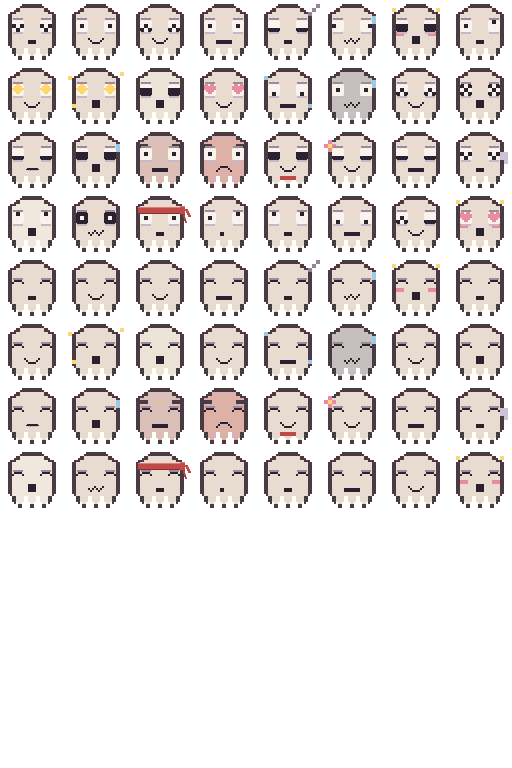
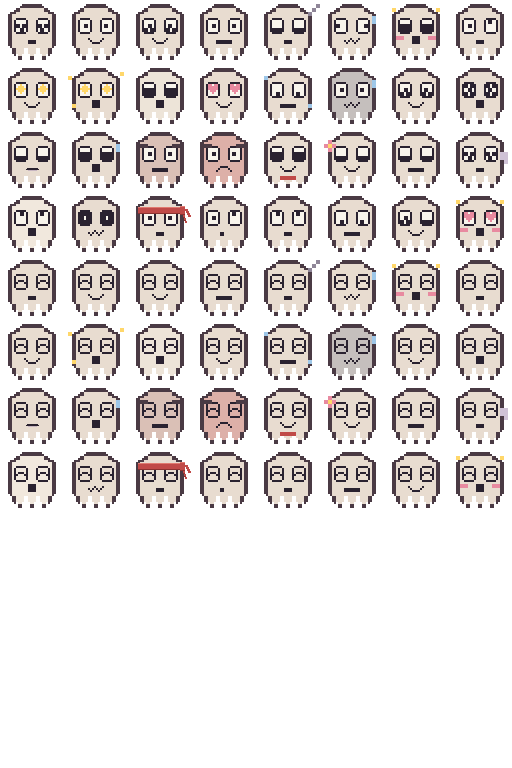
feat: the face is COMPOSED - components with recipes; inset outlined eyes
A mood is now a recipe ([name, eyes-preset, mouth-name, hue, extras]) and
the parts draw themselves: the eye component owns its socket outline,
whites, pupil presets, and blink lid; the mouth component owns its cells
and its mask reservation; fins (posture code) and spots (live layer) were
already the renderer's components. Per the maintainer's notes: whites are
INSET two cells from the silhouette (they used to bleed into the edge) and
wear a thin near-black socket outline in the mouth's 2px register - the
full ring the flush lashes could never be. Blush moves to the cheeks below
the sockets.

diff --git a/scripts/gen-sepia.js b/scripts/gen-sepia.js
@@ -32,9 +32,9 @@ const BASE16 = [
   "...oobbbbbboo...",
   "..obbbbbbbbbbo..",
   "..obbbbbbbbbbo..",
-  "..oWWWbbbbWWWo..",
-  "..oWWWbbbbWWWo..",
-  "..oWWWbbbbWWWo..",
+  "..obbbbbbbbbbo..",
+  "..obbbbbbbbbbo..",
+  "..obbbbbbbbbbo..",
   "..obbbbbbbbbbo..",
   "..obbbbbbbbbbo..",
   "..obbbbbbbbbbo..",
@@ -84,23 +84,47 @@ const up2 = list => list.flatMap(q => [
   [2 * q[0], 2 * q[1], q[2]], [2 * q[0] + 1, 2 * q[1], q[2]],
   [2 * q[0], 2 * q[1] + 1, q[2]], [2 * q[0] + 1, 2 * q[1] + 1, q[2]]
 ].map(p => q.length > 2 ? p : [p[0], p[1]]));
-// left-eye pupil presets, 16-grid (whites now cols 6-11 / 20-25, rows 10-15 in the 32-grid)
-const PUP16 = {
-  w:      [[3,6],[4,7],[5,6]],
-  dot:    [[4,6]],
-  down:   [[4,7]],
-  uptiny: [[4,5]],
-  closed: [[3,7],[4,7],[5,7]],
-  happy:  [[3,7],[4,6],[5,7]],
-  wide:   [[3,6],[4,6],[5,6],[3,7],[4,7],[5,7]],
-  cross:  [[3,5],[5,5],[4,6],[3,7],[5,7]],
-  spiral: [[3,5],[4,5],[5,5],[5,6],[5,7],[4,7],[3,7],[3,6]],
-  side:   [[3,6]]
+// ---- the EYE component. Whites live in a 5×6-cell box INSET two cells from the
+// silhouette (they used to bleed into the edge — the maintainer's note), wrapped in a
+// thin near-black socket outline drawn in the mouth's 2px register. The inset is what
+// makes a full outline possible at all: flush eyes could only ever wear half a ring.
+// Pupil presets use the ancestral 3-position grid mapped into the 5-wide box (mirrored
+// eyes lean one real pixel inward — she reads as gently focused). Blink is the same
+// socket, lidded. Left box at x=8; the right eye mirrors at x=19.
+const PUPR = {
+  w: [[0,1],[1,2],[2,1]], dot: [[1,1]], down: [[1,2]], uptiny: [[1,0]],
+  closed: [[0,2],[1,2],[2,2]], happy: [[0,2],[1,1],[2,2]],
+  wide: [[0,1],[1,1],[2,1],[0,2],[1,2],[2,2]],
+  cross: [[0,0],[2,0],[1,1],[0,2],[2,2]],
+  spiral: [[0,0],[1,0],[2,0],[2,1],[2,2],[1,2],[0,2],[0,1]],
+  side: [[0,1]]
 };
-const PUP = {}; Object.keys(PUP16).forEach(k => { PUP[k] = up2(PUP16[k]); });
-// a TRUE heart and a diamond glint, only possible on the finer grid (left-eye coords)
-const HEART = [[6,10],[7,10],[9,10],[10,10],[6,11],[7,11],[8,11],[9,11],[10,11],[11,11],[6,12],[7,12],[8,12],[9,12],[10,12],[11,12],[7,13],[8,13],[9,13],[10,13],[8,14],[9,14]];
-const STAR = [[8,10],[9,10],[7,11],[8,11],[9,11],[10,11],[6,12],[7,12],[8,12],[9,12],[10,12],[11,12],[7,13],[8,13],[9,13],[10,13],[8,14],[9,14]];
+const HEARTR = [[0,0],[1,0],[3,0],[4,0],[0,1],[1,1],[2,1],[3,1],[4,1],[0,2],[1,2],[2,2],[3,2],[4,2],[1,3],[2,3],[3,3],[2,4]];
+const STARR = [[2,0],[1,1],[2,1],[3,1],[0,2],[1,2],[2,2],[3,2],[4,2],[1,3],[2,3],[3,3],[2,4]];
+const POFF = [0, 2, 3];                                        // 3 pupil stations in a 5-wide box; mirror station = 3 - POFF
+function drawEyes(out, lp, rp, blink) {
+  [[8, lp, false], [19, rp, true]].forEach(spec => {
+    const bx = spec[0], preset = spec[1], mir = spec[2];
+    const x0 = bx - 1, x1 = bx + 5, y0 = 9, y1 = 16;           // socket ring bounds; whites bx..bx+4, rows 10-15
+    for (let x = x0 + 1; x < x1; x++) { out.push([x, y0, "p"], [x, y1, "p"]); }
+    for (let y = y0 + 1; y < y1; y++) { out.push([x0, y, "p"], [x1, y, "p"]); }
+    if (blink) {
+      out.push([bx, 13, "p"], [bx + 4, 13, "p"]);              // curved lid inside the socket
+      for (let x = bx + 1; x <= bx + 3; x++) out.push([x, 12, "p"]);
+      return;
+    }
+    for (let y = 10; y <= 15; y++) for (let x = bx; x <= bx + 4; x++) out.push([x, y, "W"]);
+    if (preset === "heart" || preset === "star") {
+      (preset === "heart" ? HEARTR : STARR).forEach(q =>
+        out.push([bx + (mir ? 4 - q[0] : q[0]), 10 + q[1], preset === "heart" ? "F" : "s"]));
+      return;
+    }
+    PUPR[preset].forEach(q => {
+      const off = mir ? 3 - POFF[q[0]] : POFF[q[0]], py = 10 + 2 * q[1];
+      out.push([bx + off, py, "p"], [bx + off + 1, py, "p"], [bx + off, py + 1, "p"], [bx + off + 1, py + 1, "p"]);
+    });
+  });
+}
 const MOUTH16 = {
   sm: [[7,10],[8,10]],
   open: [[7,9],[8,9],[7,10],[8,10]],
@@ -124,21 +148,10 @@ function rng(seed) {
     return ((t ^ t >>> 14) >>> 0) / 4294967296;
   };
 }
-const mirror = px => px.map(q => q.length > 2 ? [31 - q[0], q[1], q[2]] : [31 - q[0], q[1]]);   // 32-grid mirror
-function eyes(preset) {
-  if (preset === "heart") return HEART.concat(mirror(HEART)).map(q => [q[0], q[1], "F"]);
-  if (preset === "star") return STAR.concat(mirror(STAR)).map(q => [q[0], q[1], "s"]);
-  const src = PUP[preset];
-  return src.concat(mirror(src)).map(q => [q[0], q[1], "p"]);
-}
-function eyesAsym(l, r) {
-  return PUP[l].map(q => [q[0], q[1], "p"]).concat(mirror(PUP[r]).map(q => [q[0], q[1], "p"]));
-}
-const m = name => MOUTH[name].map(q => [q[0], q[1], "p"]);
 const X16 = {
   zzz: [[13,3,"m"],[14,2,"m"],[15,1,"m"]],
   sweat: [[13,4,"d"],[13,5,"d"]],
-  boop: [[2,2,"s"],[13,2,"s"],[3,8,"F"],[4,8,"F"],[11,8,"F"],[12,8,"F"]],
+  boop: [[2,2,"s"],[13,2,"s"],[3,9,"F"],[4,9,"F"],[11,9,"F"],[12,9,"F"]],   // blush on the cheeks, below the new eye sockets
   headband: [[3,4,"R"],[4,4,"R"],[5,4,"R"],[6,4,"R"],[7,4,"R"],[8,4,"R"],[9,4,"R"],[10,4,"R"],[11,4,"R"],[12,4,"R"],[13,5,"R"],[14,6,"R"]],
   brows: [[3,4,"o"],[4,4,"o"],[11,4,"o"],[12,4,"o"]],
   ghost: [[13,6,"G"],[14,6,"G"],[13,7,"G"],[14,7,"G"],[14,8,"G"]],
@@ -148,40 +161,42 @@ const X16 = {
   mote: [[2,3,"d"],[13,10,"d"]]
 };
 const X = {}; Object.keys(X16).forEach(k => { X[k] = up2(X16[k]); });
-// [name, eyes, mouth, chromatophore hue, extras?]
+// A mood is a RECIPE, not a drawing: [name, eyes-preset (or [left,right]), mouth-name,
+// chromatophore hue, extras?]. Eyes and mouth are components that draw themselves;
+// fins (posture code) and spots (live layer) are the renderer's components.
 const MOODS = [
-  ["neutral",    eyes("w"),                m("sm"),    "#b89ab0"],
-  ["content",    eyes("dot"),              m("smile"), "#d9a877"],
-  ["delighted",  eyes("happy"),            m("smile"), "#e8b04a"],
-  ["focused",    eyes("dot"),              m("flat"),  "#7d8fb8"],
-  ["sleepy",     eyes("closed"),           m("sm"),    "#9a90a8", X.zzz],
-  ["sheepish",   eyes("side"),             m("wavy"),  "#d99a8a", X.sweat],
-  ["booped",     eyes("wide"),             m("open"),  "#e88aa0", X.boop],
-  ["thinking",   eyesAsym("dot","uptiny"), m("sm"),    "#8f9ac0"],
-  ["spark",      eyes("star"),             m("smile"), "#ffd76a"],
-  ["excited",    eyes("star"),             m("open"),  "#ffb84a", X.sparkles],
-  ["surprised",  eyes("wide"),             m("open"),  "#b79ad0"],
-  ["tender",     eyes("heart"),            m("smile"), "#e8a0b0"],
-  ["melancholy", eyes("down"),             m("flat"),  "#8f96a8", X.mote],
-  ["anxious",    eyes("dot"),              m("wavy"),  "#7a8296", X.sweat],
-  ["mirth",      eyes("happy"),            m("smile"), "#e0b060"],
-  ["laugh",      eyes("cross"),            m("open"),  "#ffd24a"],
-  ["groan",      eyes("closed"),           m("frown"), "#9a9488"],
-  ["oops",       eyes("wide"),             m("open"),  "#d98a6a", X.sweat],
-  ["frustrated", eyes("dot"),              m("flat"),  "#a05050", X.brows],
-  ["angry",      eyes("dot"),              m("frown"), "#c04040", X.brows],
-  ["dramatic",   eyes("wide"),             m("smile"), "#b0413e", X.bowtie],
-  ["at_peace",   eyes("closed"),           m("smile"), "#8fae8f", X.flower],
-  ["solemn",     eyes("closed"),           m("flat"),  "#8a8f9a"],
-  ["rhyme",      eyes("w"),                m("sm"),    "#9a8fae", X.ghost],
-  ["awe",        eyes("uptiny"),           m("open"),  "#5a6a8a"],
-  ["vertigo",    eyes("spiral"),           m("wavy"),  "#b79ad0"],
-  ["resolute",   eyes("dot"),              m("sm"),    "#e0994e"],   // headband drawn in the fine pass — a high-res object on a low-res body
-  ["puzzled",    eyesAsym("dot","uptiny"), m("tiny"),  "#c0b08a"],
-  ["asking",     eyes("uptiny"),           m("sm"),    "#9ac0b0"],
-  ["weary",      eyes("down"),             m("flat"),  "#8b93a0"],
-  ["wink",       eyesAsym("happy","closed"), m("smile"), "#e0a877"],
-  ["love",       eyes("heart"),            m("open"),  "#e87a90", X.boop]
+  ["neutral",    "w",                "sm",    "#b89ab0"],
+  ["content",    "dot",              "smile", "#d9a877"],
+  ["delighted",  "happy",            "smile", "#e8b04a"],
+  ["focused",    "dot",              "flat",  "#7d8fb8"],
+  ["sleepy",     "closed",           "sm",    "#9a90a8", X.zzz],
+  ["sheepish",   "side",             "wavy",  "#d99a8a", X.sweat],
+  ["booped",     "wide",             "open",  "#e88aa0", X.boop],
+  ["thinking",   ["dot","uptiny"],   "sm",    "#8f9ac0"],
+  ["spark",      "star",             "smile", "#ffd76a"],
+  ["excited",    "star",             "open",  "#ffb84a", X.sparkles],
+  ["surprised",  "wide",             "open",  "#b79ad0"],
+  ["tender",     "heart",            "smile", "#e8a0b0"],
+  ["melancholy", "down",             "flat",  "#8f96a8", X.mote],
+  ["anxious",    "dot",              "wavy",  "#7a8296", X.sweat],
+  ["mirth",      "happy",            "smile", "#e0b060"],
+  ["laugh",      "cross",            "open",  "#ffd24a"],
+  ["groan",      "closed",           "frown", "#9a9488"],
+  ["oops",       "wide",             "open",  "#d98a6a", X.sweat],
+  ["frustrated", "dot",              "flat",  "#a05050", X.brows],
+  ["angry",      "dot",              "frown", "#c04040", X.brows],
+  ["dramatic",   "wide",             "smile", "#b0413e", X.bowtie],
+  ["at_peace",   "closed",           "smile", "#8fae8f", X.flower],
+  ["solemn",     "closed",           "flat",  "#8a8f9a"],
+  ["rhyme",      "w",                "sm",    "#9a8fae", X.ghost],
+  ["awe",        "uptiny",           "open",  "#5a6a8a"],
+  ["vertigo",    "spiral",           "wavy",  "#b79ad0"],
+  ["resolute",   "dot",              "sm",    "#e0994e"],   // headband drawn in the fine pass — a high-res object on a low-res body
+  ["puzzled",    ["dot","uptiny"],   "tiny",  "#c0b08a"],
+  ["asking",     "uptiny",           "sm",    "#9ac0b0"],
+  ["weary",      "down",             "flat",  "#8b93a0"],
+  ["wink",       ["happy","closed"], "smile", "#e0a877"],
+  ["love",       "heart",            "open",  "#e87a90", X.boop]
 ];
 if (MOODS.length !== 32) throw new Error("expected 32 moods, got " + MOODS.length);
 BASE.forEach((r, i) => { if (r.length !== 32) throw new Error("BASE row " + i + " length " + r.length); });
@@ -212,15 +227,17 @@ MOODS.forEach((mood, i) => { for (let frame = 0; frame < 2; frame++) {
   const skin = t > 0 ? mixHex(COLORS.b, mood[3], t) : t < 0 ? mixHex(COLORS.b, "#f9f4ea", -t) : COLORS.b;
   for (let y = 0; y < 32; y++) for (let x = 0; x < 32; x++) {
     const k = BASE[y][x];
-    if (k !== ".") cellPut(cx, cy, x, y, (k === "b" || (blink && k === "W")) ? skin : COLORS[k]);   // blink: lids replace the whites
+    if (k !== ".") cellPut(cx, cy, x, y, k === "b" ? skin : COLORS[k]);
   }
-  // fins are no longer baked: the renderer draws them as smooth undulating membranes,
-  // posture per mood (FRILL_OF remains the canonical mood→posture table; the renderer's
-  // fins code-string derives from it — keep them in sync)
-  const lidL = [[6, 13], [7, 12], [8, 12], [9, 12], [10, 12], [11, 13]];   // curved lids, 2px grid — corners dip
-  const eyePix = blink ? lidL.concat(mirror(lidL)).map(q => [q[0], q[1], "p"]) : mood[1];
-  const mouthPix = FINE_MOUTH[mood[0]] ? [] : mood[2];         // fine-mouth moods draw their lips in the fine pass below
-  eyePix.concat(mouthPix, mood[4] || []).forEach(q => cellPut(cx, cy, q[0], q[1], COLORS[q[2]]));
+  // COMPOSE the face from components. Fins are the renderer's (smooth membranes,
+  // posture via FRILL_OF); spots are the renderer's (live layer); eyes and mouth
+  // draw themselves here from the mood's recipe.
+  const eyeSpec = mood[1], pair = Array.isArray(eyeSpec) ? eyeSpec : [eyeSpec, eyeSpec];
+  const feat = [];
+  drawEyes(feat, pair[0], pair[1], blink);
+  if (!FINE_MOUTH[mood[0]]) feat.push(...MOUTH[mood[2]].map(q => [q[0], q[1], "p"]));   // fine-mouth moods draw lips in the fine pass below
+  feat.push(...(mood[4] || []));
+  feat.forEach(q => cellPut(cx, cy, q[0], q[1], COLORS[q[2]]));
 
   // ---- the fine pass: sub-pixel ink. Doctrine: the BODY lives on the 4px grid (the
   // chunkiness is the body); body *definition* may use 2px half-resolution ink; objects
@@ -228,20 +245,9 @@ MOODS.forEach((mood, i) => { for (let frame = 0; frame < 2; frame++) {
   // a low-resolution entity interfacing with a higher-resolution reality.
   const fpx = (x, y, c) => { if (x >= 0 && x < CELL && y >= 0 && y < CELL) put(cx + x, cy + y, c); };
   const frect = (x, y, w, h, c) => { for (let yy = y; yy < y + h; yy++) for (let xx = x; xx < x + w; xx++) fpx(xx, yy, c); };
-  const RING = "#a08a9a", RING_SOFT = "#c8b6c2"; // lash plum + its fainter echo
-  const softenEye = (x) => {                    // patch is 12x12 real px at (x, 20)
-    fpx(x, 20, COLORS.b); fpx(x + 11, 20, COLORS.b);      // clip the white patch's corners back to skin —
-    fpx(x, 31, COLORS.b); fpx(x + 11, 31, COLORS.b);      // the eye itself rounds; no frame needed
-    frect(x + 1, 18, 10, 2, RING);              // top lash, 2px (1px read too thin) — inset, never touches the silhouette
-    frect(x + 1, 32, 10, 2, RING_SOFT);         // soft under-line, 2px
-  };
-  if (!blink) {
-    softenEye(12);                              // left eye (logical cols 3-5, rows 5-7)
-    softenEye(40);                              // right eye (cols 10-12)
-  } else {
-    frect(13, 22, 10, 2, RING);                 // blink: a lash-line over each lid, 2px
-    frect(41, 22, 10, 2, RING);
-  }
+  // (The old plum lash-lines and corner-clips retired with the socket outline: the
+  // eye component now carries its own full ring — possible because the whites are
+  // inset from the silhouette instead of flush against it.)
 
   // The baked chromatophore patterns are RETIRED (v0.20.0): the maintainer found the
   // fixed bold patches distracting once the smooth roaming layer existed. All camo is
@@ -280,13 +286,13 @@ MOODS.forEach((mood, i) => {
       for (let x = gx * SCALE - 1; x <= gx * SCALE + SCALE; x++)
         if (x >= 0 && x < CELL && y >= 0 && y < CELL) ex[y * CELL + x] = 1;
   };
-  const mouthCells = FINE_MOUTH[mood[0]] ? up2([[6, 10], [7, 10], [8, 10], [9, 10]]) : mood[2];   // fine mouths reserve only their own thin row
+  const mouthCells = FINE_MOUTH[mood[0]] ? up2([[6, 10], [7, 10], [8, 10], [9, 10]]) : MOUTH[mood[2]];   // the mouth COMPONENT's own cells; fine mouths reserve only their thin row
   mouthCells.forEach(q => mark(q[0], q[1]));                   // the actual mouth, whatever shape this expression wears
   (mood[4] || []).forEach(q => mark(q[0], q[1]));              // extras that sit on the mantle (brows, blush, flower…)
   const okM = (x, y) => {
     if (x < 0 || x >= CELL || y < 0 || y >= CELL) return false;
     if (BASE[y >> 1][x >> 1] !== "b") return false;            // 2px body grid
-    if (y >= 17 && y <= 34 && ((x >= 11 && x <= 24) || (x >= 39 && x <= 52))) return false;   // eyes + lashes (constant anatomy)
+    if (y >= 17 && y <= 34 && ((x >= 13 && x <= 28) || (x >= 35 && x <= 50))) return false;   // eye sockets incl. outline, inset from the flanks (constant anatomy)
     if (ex[y * CELL + x]) return false;
     if (mood[0] === "resolute" && x >= 8 && x <= 61 && y >= 13 && y <= 32) return false;      // the hachimaki band, knot, and tails
     return true;